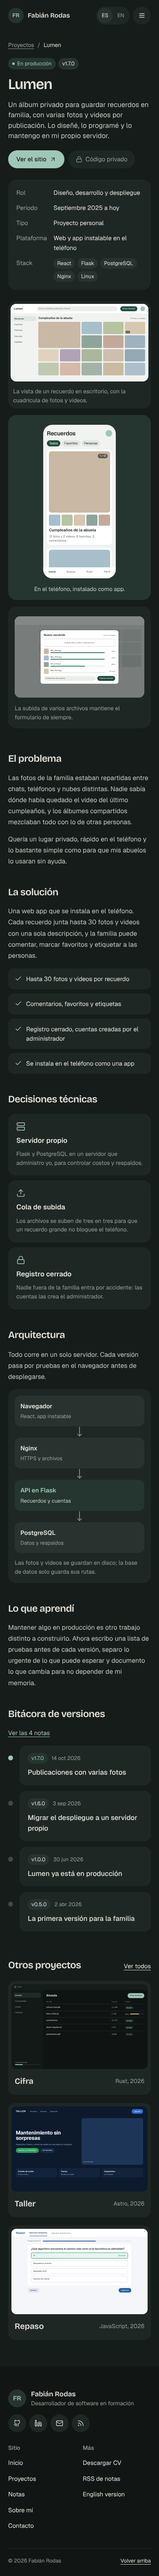
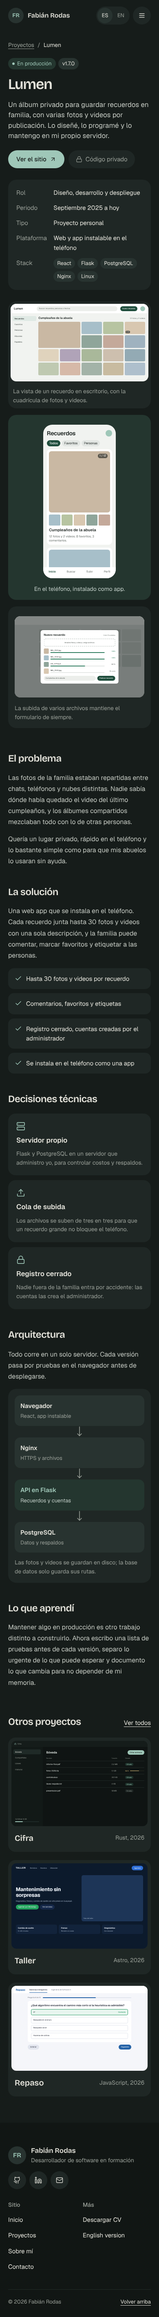
docs: Actualizar README, decisiones, reporte y capturas tras quitar Notas y rediseñar el hero
Claude-Session: https://claude.ai/code/session_01P25f2q1FU6c4eH67GAYuLX

diff --git a/docs/REPORTE-FINAL.md b/docs/REPORTE-FINAL.md
@@ -1,5 +1,7 @@
 # Reporte final
 
+> **Actualización (después del PR #1):** se quitó la sección de Notas del alcance y se rediseñó el hero del inicio. Detalle en `docs/DECISIONES-IMPLEMENTACION.md` (decisiones 33 a 35). Las cifras de abajo ya reflejan ese cambio.
+
 ## Resultado
 
 El portafolio está implementado de punta a punta según `docs/diseno/PLAN.md` y los artboards de `docs/diseno/artboards/`. Se cumplen los cuatro criterios de "Definición de terminado":
@@ -7,7 +9,7 @@ El portafolio está implementado de punta a punta según `docs/diseno/PLAN.md` y
 | Criterio | Estado |
 |---|---|
 | Todas las rutas de §1 existen en ES y EN y coinciden con los artboards a 1440 px; el inicio coincide con `HomeMobile` a 390 px | ✅ (tabla abajo) |
-| Funcionalidades de §4 con prueba Playwright | ✅ 53 pruebas pasan |
+| Funcionalidades de §4 con prueba Playwright | ✅ 36 pruebas pasan |
 | `npm run build`, `astro check` y pruebas sin errores; Lighthouse ≥ 95 | ✅ `astro check`: 0 errores, 0 avisos |
 | README, reportes, todo comiteado y pusheado | ✅ |
 
@@ -17,42 +19,38 @@ Medido en Chromium, renderizando cada artboard con `scripts/artboards/support.js
 
 | Artboard | Ruta | Ancho | Alto artboard | Alto sitio | Primera pantalla idéntica |
 |---|---|---|---|---|---|
-| Main | `/` | 1440 | 3505 | 3505 | 100 % |
-| HomeMobile | `/` | 390 | 3892 | 3884 | 100 % |
 | Proyectos | `/proyectos/` | 1440 | 2975 | 2975 | 99.9 % |
-| Proyecto | `/proyectos/lumen/` | 1440 | 4730 | 4730 | 100 % |
-| Notas | `/notas/` | 1440 | 2717 | 2719 | 99.6 % |
-| Nota | `/notas/lumen-v1-7/` | 1440 | 4164 | 4161 | 100 % |
+| Proyecto | `/proyectos/lumen/` | 1440 | 4730 | 4188 (sin bitácora) | > 90 % |
 | SobreMi | `/sobre-mi/` | 1440 | 3790 | 3790 | 100 % |
 | Contacto | `/contacto/` | 1440 | 1696 | 1696 | 100 % |
 
-Las diferencias pequeñas vienen de los conteos de Notas (11 notas en vez de 10, ver decisión 10) y de algunos controles que subieron a 44 px por accesibilidad. Capturas de referencia: `docs/capturas/referencia/`. Capturas del sitio (ES/EN, 1440 y 390 px): `docs/capturas/sitio/`.
+La navegación ahora tiene cuatro enlaces y algunos controles subieron a 44 px por accesibilidad; el resto coincide. Capturas de referencia: `docs/capturas/referencia/`. Capturas del sitio (ES/EN, 1440 y 390 px): `docs/capturas/sitio/`.
 
 ### Lighthouse (sobre `npm run preview`)
 
 | Ruta | Modo | Performance | Accessibility | Best Practices | SEO |
 |---|---|---|---|---|---|
-| `/` | móvil | 99 | 96 | 100 | 100 |
-| `/` | escritorio | 100 | 96 | 100 | 100 |
+| `/` | móvil | 99 | 97 | 100 | 100 |
+| `/` | escritorio | 100 | 97 | 100 | 100 |
 | `/proyectos/` | móvil | 99 | 96 | 100 | 100 |
 | `/proyectos/` | escritorio | 100 | 96 | 100 | 100 |
-| `/notas/` | móvil | 98 | 96 | 100 | 100 |
-| `/notas/` | escritorio | 100 | 96 | 100 | 100 |
+| `/contacto/` | móvil | 99 | 100 | 100 | 100 |
+| `/contacto/` | escritorio | 100 | 100 | 100 | 100 |
 
 Accessibility no llega a 100 solo por el texto diminuto dentro de los mockups dibujados (réplica exacta del diseño). Se resuelve solo al usar capturas reales.
 
 ## Qué se hizo
 
-- **Stack**: Astro 7.4 estático, TypeScript estricto, CSS propio con tokens, `@astrojs/mdx`, `@astrojs/rss`, `@astrojs/sitemap`, Shiki con un tema propio y fuentes locales con `@fontsource-variable` (Bricolage Grotesque, Geist, Geist Mono).
-- **Rutas** (ES sin prefijo, EN en `/en/`): inicio, proyectos, 5 casos de estudio, notas, 11 notas, sobre mí, contacto, RSS por idioma, sitemap, `robots.txt` y un 404 con el estilo del sitio.
-- **Contenido** en colecciones (`src/content/`): 8 proyectos y 11 notas, cada uno en español e inglés. La nota "Lumen v1.7" y el caso de Lumen están completos; el resto tiene cuerpos cortos con la misma plantilla.
+- **Stack**: Astro 7.4 estático, TypeScript estricto, CSS propio con tokens, `@astrojs/sitemap` y fuentes locales con `@fontsource-variable` (Bricolage Grotesque, Geist, Geist Mono).
+- **Rutas** (ES sin prefijo, EN en `/en/`): inicio, proyectos, 5 casos de estudio, sobre mí, contacto, sitemap, `robots.txt` y un 404 con el estilo del sitio.
+- **Contenido** en colecciones (`src/content/`): 8 proyectos en español e inglés. El caso de Lumen está completo; el resto tiene textos cortos con la misma plantilla.
 - **Componente `Shot`**: los 8 mockups de `Shot.dc.html` con el mismo HTML y container queries. Acepta `src` para imágenes reales.
-- **JavaScript mínimo** (vanilla TS): filtros y buscador de Proyectos; filtros por tipo, proyecto y etiqueta, búsqueda y paginación de 7 en Notas (estado en la URL); menú móvil; botones de copiar; índice lateral activo; formulario de contacto.
+- **JavaScript mínimo** (vanilla TS): filtros y buscador de Proyectos; menú móvil; botones de copiar; índice lateral activo; formulario de contacto.
 - **Formulario**: envía a `PUBLIC_FORM_ENDPOINT` si existe; si no, abre un `mailto:`. Validación accesible y mensajes de éxito y error.
 - **Animaciones** solo CSS y respetando `prefers-reduced-motion`: entrada escalonada del hero, aparición al hacer scroll con `animation-timeline: view()`, zoom de imagen en hover y View Transitions entre páginas.
-- **SEO y metadatos**: título y descripción por página, Open Graph y Twitter con `og.png`, `hreflang` ES/EN, canónicas y `article:published_time` en las notas.
+- **SEO y metadatos**: título y descripción por página, Open Graph y Twitter con `og.png`, `hreflang` ES/EN y canónicas.
 - **Accesibilidad**: un `h1` por página, landmarks, `aria-current` en la navegación, enlace "Saltar al contenido", foco visible, objetivos táctiles de 44 px y sin scroll horizontal de 390 a 1440 px.
-- **Pruebas** (`tests/`): comparación visual contra los artboards, capturas de 14 rutas a 1440 y 390 px, y pruebas funcionales de filtros, paginación, etiquetas, menú móvil, ES/EN, formulario (mailto, endpoint correcto y endpoint con error), copiar y 404.
+- **Pruebas** (`tests/`): comparación visual contra los artboards, capturas de 10 rutas (ES/EN) a 1440 y 390 px, y pruebas funcionales de filtros, menú móvil, rutas eliminadas, ES/EN, formulario (mailto, endpoint correcto y endpoint con error), copiar y 404.
 
 Las decisiones que el plan no especificaba están en `docs/DECISIONES-IMPLEMENTACION.md`.
 
@@ -71,12 +69,12 @@ El despliegue en Cloudflare Pages y la conexión de fabianrodas.com están expli
 
 ## Qué falta que reemplaces
 
-1. **Proyectos y notas reales**: edita o borra los archivos de `src/content/proyectos/{es,en}/` y `src/content/notas/{es,en}/`.
+1. **Proyectos reales**: edita o borra los archivos de `src/content/proyectos/{es,en}/`.
 2. **Capturas reales**: cambia `cover: lumen` (y los de `case.gallery`) por `{ src, alt, width, height }` con imágenes en `public/img/`. Ver el README.
 3. **Fotos de Sobre mí**: el retrato y las tres fotos de "Fuera del código" en `src/views/SobreMi.astro`.
 4. **Datos de contacto**: `src/lib/sitio.ts` (email `hola@fabianrodas.com`, LinkedIn y GitHub de ejemplo).
 5. **CV**: reemplaza `public/cv/fabian-rodas-cv.pdf` (hoy es un PDF de una página que dice que es de ejemplo).
-6. **"En qué estoy ahora"** del inicio y los textos de Sobre mí (experiencia, educación, certificados), que están en `src/views/Inicio.astro` y `src/views/SobreMi.astro`.
+6. **La ficha del hero** del inicio (Ahora, Estudio, Antes, Busco) y los textos de Sobre mí (experiencia, educación, certificados), que están en `src/views/Inicio.astro` y `src/views/SobreMi.astro`.
 7. **Endpoint del formulario**: define `PUBLIC_FORM_ENDPOINT` en Cloudflare si no quieres depender del `mailto:`.
 8. **Enlaces de ejemplo** de los proyectos (`lumen.fabianrodas.com`, `taller.example.com`, `repaso.example.com` y los repos de GitHub).
 9. Opcional: regenerar `public/og.png` con `npm run og` si cambias el titular.

diff --git a/README.md b/README.md
@@ -1,8 +1,8 @@
 # fabianrodas.com
 
-Portafolio y bitácora de Fabián Rodas. Sitio estático hecho con **Astro 7** y TypeScript estricto, en español (`/`) e inglés (`/en/`), listo para Cloudflare Pages.
+Portafolio de Fabián Rodas. Sitio estático hecho con **Astro 7** y TypeScript estricto, en español (`/`) e inglés (`/en/`), listo para Cloudflare Pages.
 
-> El contenido actual (Lumen, Cifra, Taller, Repaso, Nodo, las notas y hola@fabianrodas.com) es **de ejemplo**. Cámbialo editando los archivos Markdown descritos abajo.
+> El contenido actual (Lumen, Cifra, Taller, Repaso, Nodo y hola@fabianrodas.com) es **de ejemplo**. Cámbialo editando los archivos Markdown descritos abajo.
 
 ## Requisitos
 
@@ -37,9 +37,8 @@ Si Playwright no encuentra su navegador, define `CHROMIUM_PATH` con la ruta a un
 src/
   content/
     proyectos/{es,en}/*.md   ← un archivo por proyecto e idioma
-    notas/{es,en}/*.{md,mdx} ← un archivo por nota e idioma
   content.config.ts          ← esquema de los frontmatter
-  components/                ← Header, Footer, Shot (mockups), Icono, componentes MDX
+  components/                ← Header, Footer, Shot (mockups), Icono
   views/                     ← cada página, compartida por ES y EN
   pages/                     ← rutas (las de /en/ reutilizan las mismas vistas)
   i18n/ui.ts                 ← textos de la interfaz en ES/EN y fechas
@@ -90,37 +89,6 @@ case:                             # opcional, solo para destacados
 
 Campos opcionales extra: `homeSummary`, `label`, `tags`, `homeTags`, `period`, `kind`, `platform`, `platformShort`, `links.privateRepo`, `case.gallery`. Todos están documentados en `src/content.config.ts`.
 
-## Agregar una nota
-
-Crea `src/content/notas/es/mi-nota.mdx` (la URL será `/notas/mi-nota/`):
-
-~~~mdx
----
-title: "Lumen v1.8: respaldo físico"
-date: 2026-11-20
-summary: Resumen que aparece en las tarjetas y en el RSS.
-kind: avance                # avance | nota | anuncio
-project: lumen              # opcional: slug del proyecto (aparece en su bitácora)
-version: 1.8.0              # opcional: versión que anuncia
-tags: [Flask, Despliegue]
-cover: lumen                # opcional
----
-
-Texto en Markdown. Cada `## Título` aparece en el índice lateral.
-
-```python title="respaldo.py"
-print("bloque de código con nombre de archivo y botón Copiar")
-```
-
-<Aviso>Un aviso destacado.</Aviso>
-
-<Figura kind="lumen-movil" titulo="Título" texto="Descripción de la captura." />
-
-<Pendientes items={[{ hecho: true, texto: 'Listo' }, { hecho: false, texto: 'Pendiente' }]} />
-~~~
-
-`readingTime` se calcula solo (≈200 palabras por minuto); puedes fijarlo en el frontmatter. Con `draft: true` la nota no se publica. Las notas aparecen en `/notas/`, en el inicio, en el RSS (`/notas/rss.xml` y `/en/notas/rss.xml`) y en la bitácora de su proyecto.
-
 ## Cambiar las imágenes de ejemplo por capturas reales
 
 Las capturas son mockups dibujados por `src/components/Shot.astro`. Para usar una imagen real:
@@ -136,12 +104,12 @@ Las capturas son mockups dibujados por `src/components/Shot.astro`. Para usar un
      height: 1000
    ```
 
-   Lo mismo sirve dentro de `case.gallery`. En una nota MDX: `<Figura src="/img/movil.webp" alt="…" titulo="…" />`.
+   Lo mismo sirve dentro de `case.gallery`.
 3. En `src/views/SobreMi.astro`, reemplaza los `<Shot kind="foto" …>` por `<Shot src="/img/retrato.webp" alt="…" width={800} height={1000} />`.
 
 El componente pone `width`, `height`, `loading="lazy"` y `alt` automáticamente.
 
-Otros datos a reemplazar: `src/lib/sitio.ts` (email, LinkedIn, GitHub), `public/cv/fabian-rodas-cv.pdf` (CV real) y los textos de `src/views/Inicio.astro` ("En qué estoy ahora").
+Otros datos a reemplazar: `src/lib/sitio.ts` (email, LinkedIn, GitHub), `public/cv/fabian-rodas-cv.pdf` (CV real) y los textos del hero de `src/views/Inicio.astro` (presentación y la ficha "Ahora / Estudio / Antes / Busco").
 
 ## Formulario de contacto
 
@@ -165,10 +133,10 @@ Alternativa sin Git: `npm run build && npx wrangler pages deploy` (usa `wrangler
 1. En el proyecto de Pages: *Custom domains → Set up a custom domain* → `fabianrodas.com`.
 2. Si el dominio ya está en Cloudflare, el registro DNS se crea solo. Si no, agrega el dominio a Cloudflare y cambia los nameservers en tu registrador por los que indica Cloudflare.
 3. Repite con `www.fabianrodas.com` y, en *Rules → Redirect Rules*, redirige `www` al dominio principal.
-4. `site` ya está configurado como `https://fabianrodas.com` en `astro.config.mjs` (canónicas, sitemap y RSS lo usan).
+4. `site` ya está configurado como `https://fabianrodas.com` en `astro.config.mjs` (canónicas y sitemap lo usan).
 
 ## Calidad
 
 - `npm run build` y `npm run check` sin errores.
-- 53 pruebas Playwright: comparación con los artboards (alto de página y primera pantalla píxel a píxel), capturas a 1440 y 390 px en ES/EN sin scroll horizontal, filtros, paginación, menú móvil, ES/EN, formulario y copiar.
-- Lighthouse ≥ 95 en Performance, Accessibility, Best Practices y SEO en `/`, `/proyectos/` y `/notas/`.
+- 36 pruebas Playwright: comparación con los artboards (alto de página y primera pantalla píxel a píxel) en Proyectos, caso, Sobre mí y Contacto; capturas a 1440 y 390 px en ES/EN sin scroll horizontal; filtros, menú móvil, ES/EN, formulario y copiar.
+- Lighthouse ≥ 95 en Performance, Accessibility, Best Practices y SEO en `/`, `/proyectos/` y `/contacto/`.

diff --git a/docs/DECISIONES-IMPLEMENTACION.md b/docs/DECISIONES-IMPLEMENTACION.md
@@ -48,3 +48,9 @@ Decisiones tomadas donde `docs/diseno/PLAN.md` o los artboards no especificaban 
 ## Verificación
 
 32. **Renderizador local de artboards** (`scripts/artboards/support.js`): el `support.js` original no estaba en el repositorio, así que se escribió uno mínimo que interpreta `<dc-import>`, `<sc-for>`, `<sc-if>` y `{{…}}`. Las pruebas comparan cada ruta con su artboard renderizado en el mismo navegador.
+
+## Cambios posteriores (después de fusionar el PR #1)
+
+33. **Se quitó la sección de Notas del alcance.** Se eliminaron la colección `notas`, las rutas `/notas/` y `/en/notas/` (lista, nota individual y RSS), los filtros y la paginación, los componentes MDX (`Figura`, `Aviso`, `Pendientes`), el tema de Shiki y las integraciones `@astrojs/mdx` y `@astrojs/rss`. También salieron de la navegación, el pie (enlace e icono RSS), el inicio ("Últimas notas"), el caso de estudio ("Bitácora de versiones" y su entrada en el índice), la tarjeta de Lumen en /proyectos/ ("N notas en la bitácora") y el motivo "Una nota del blog" del formulario. Las decisiones 10 a 14 y 16 a 18 sobre notas ya no aplican. Los artboards `Notas.dc.html` y `Nota.dc.html` se conservan en `docs/` como historial del diseño.
+34. **Hero del inicio rediseñado** para que se vea menos genérico: se quitaron la insignia "Disponible…", el titular de eslogan, los dos botones tipo píldora, la lista con iconos y el collage de capturas con la tarjeta flotante. Ahora es tipográfico: una línea con rol y ciudad sobre una regla fina, el nombre en grande (Bricolage Grotesque), una presentación en primera persona con enlaces a Lumen y Cifra dentro del texto, enlaces discretos (proyectos, CV y email) y una ficha a la derecha con "Ahora / Estudio / Antes / Busco". La ficha reemplaza a la sección "En qué estoy ahora", que repetía esa información. Las capturas siguen apareciendo justo debajo, en "Proyectos destacados".
+35. **Pruebas visuales**: el inicio ya no se compara con `Main.dc.html` ni `HomeMobile.dc.html` (se cambió a propósito), y en el caso de estudio solo se compara la primera pantalla porque la página es más corta sin la bitácora.
